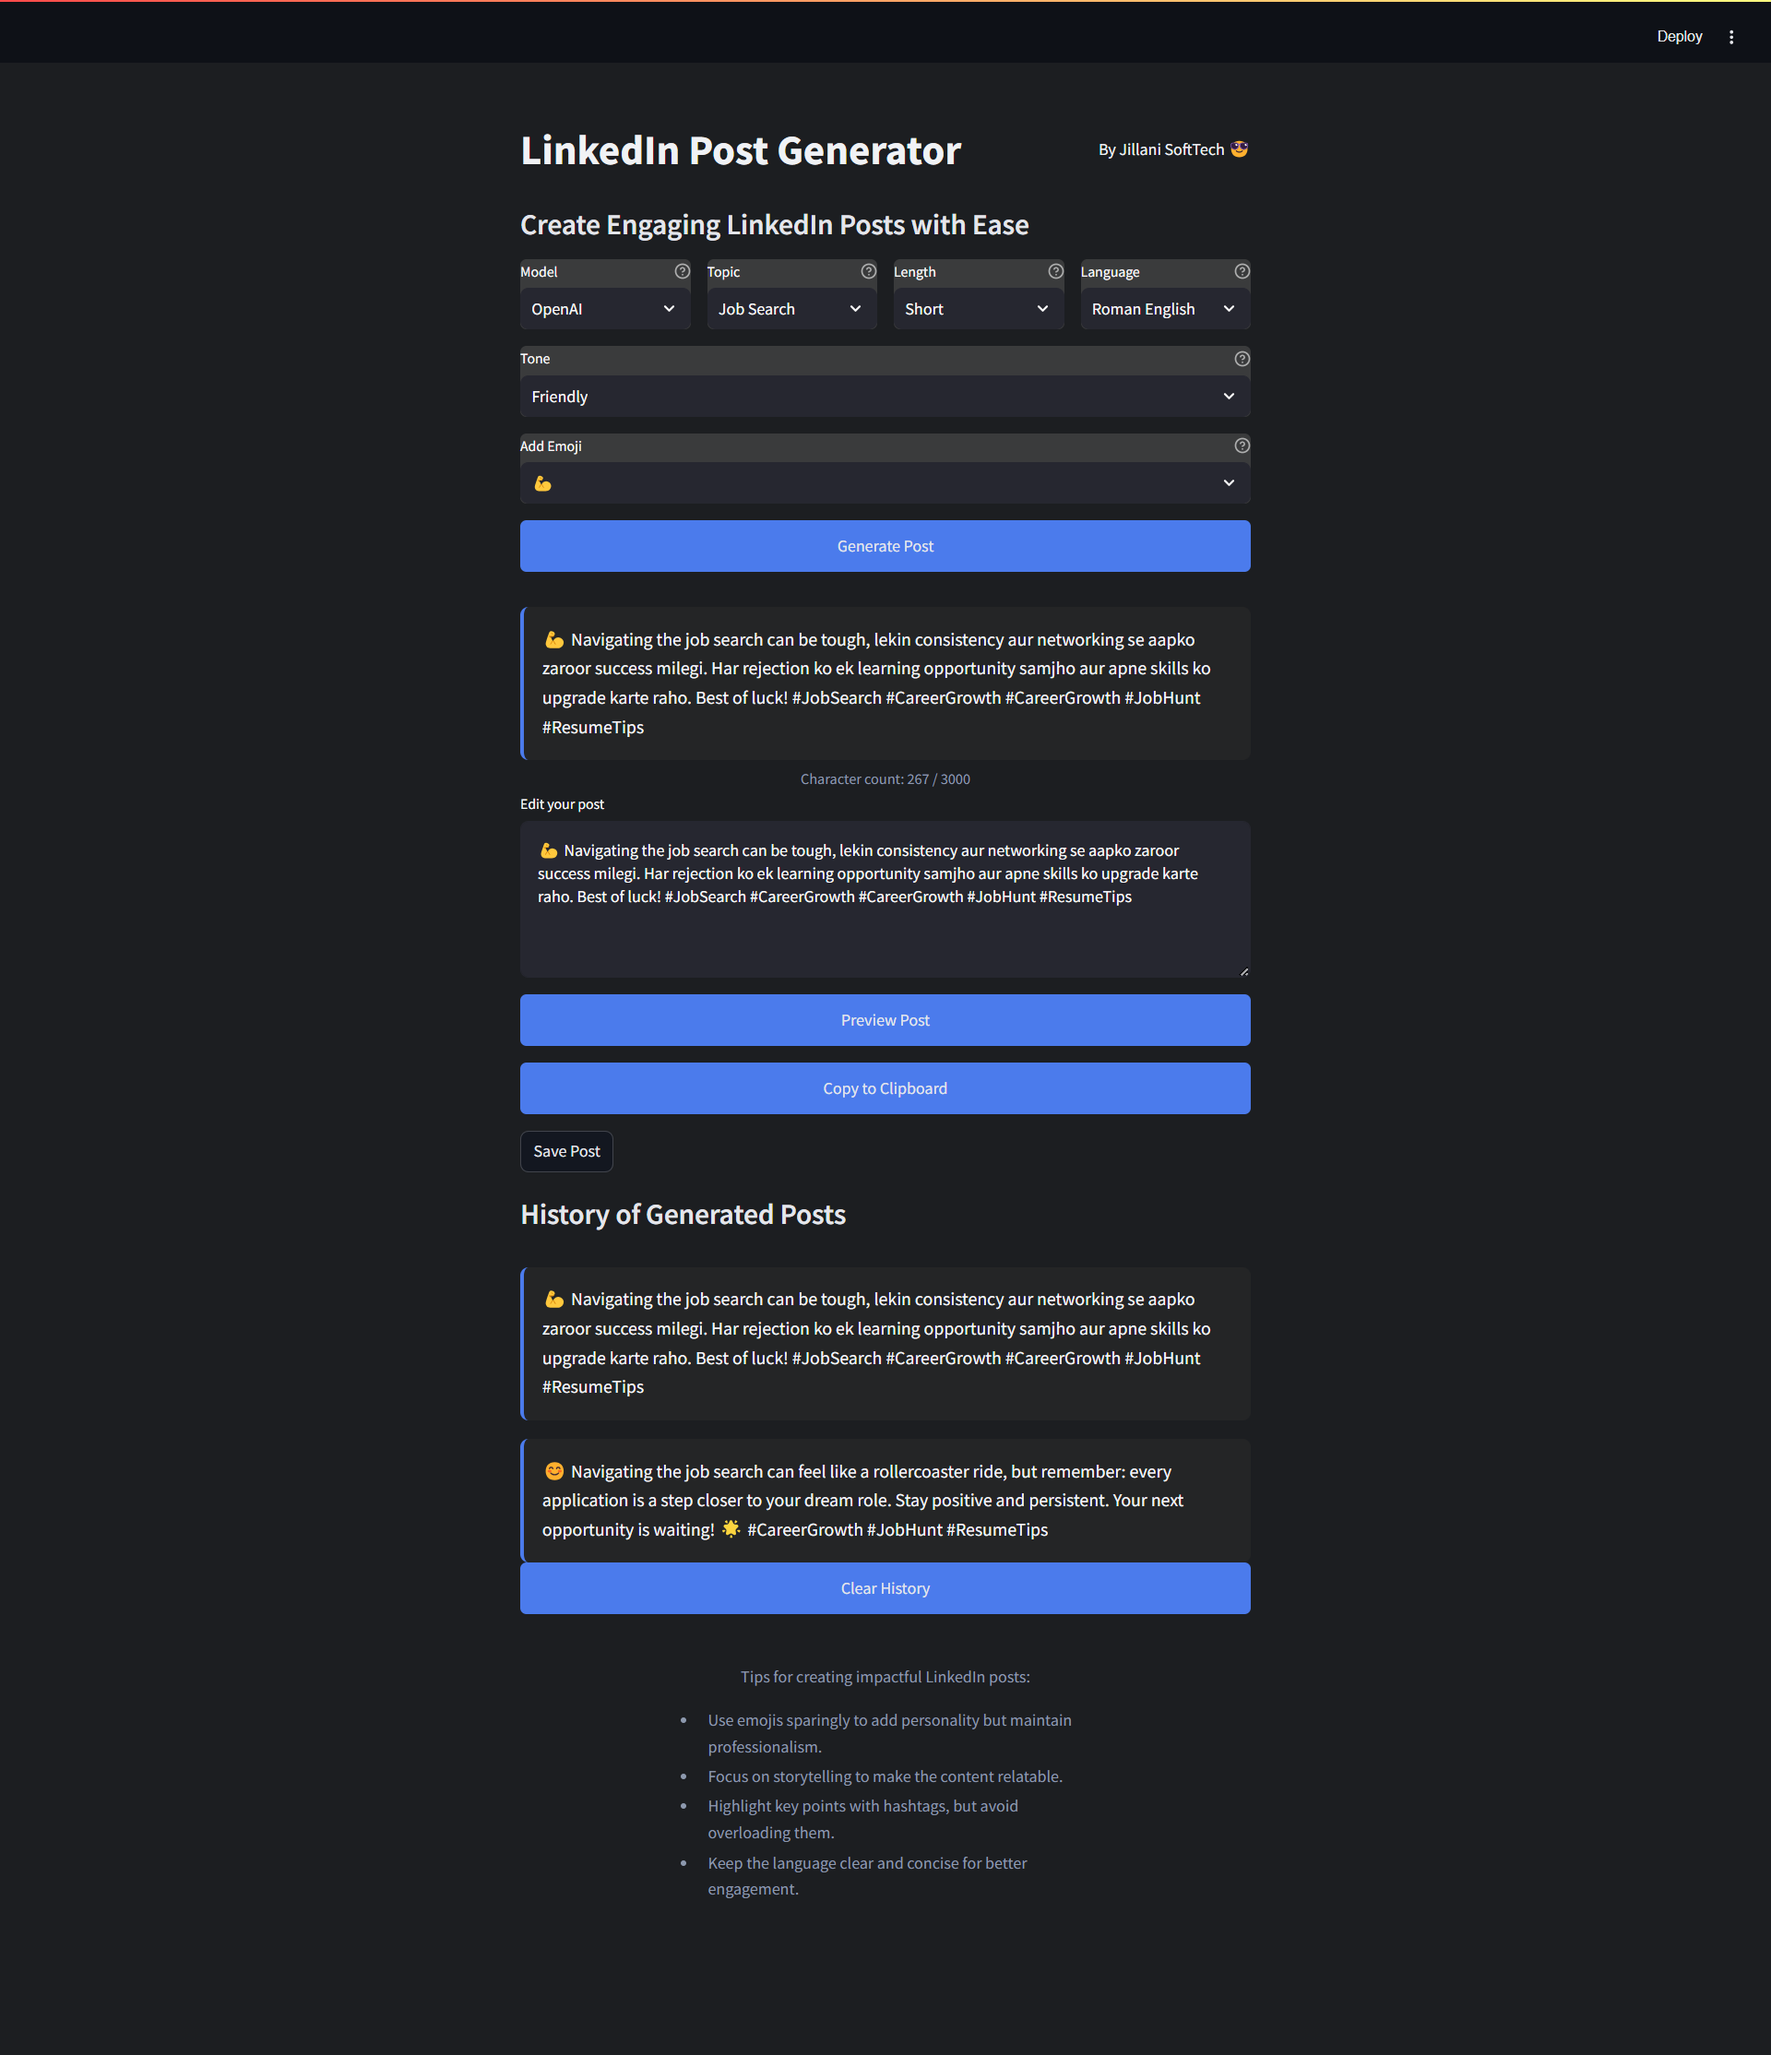
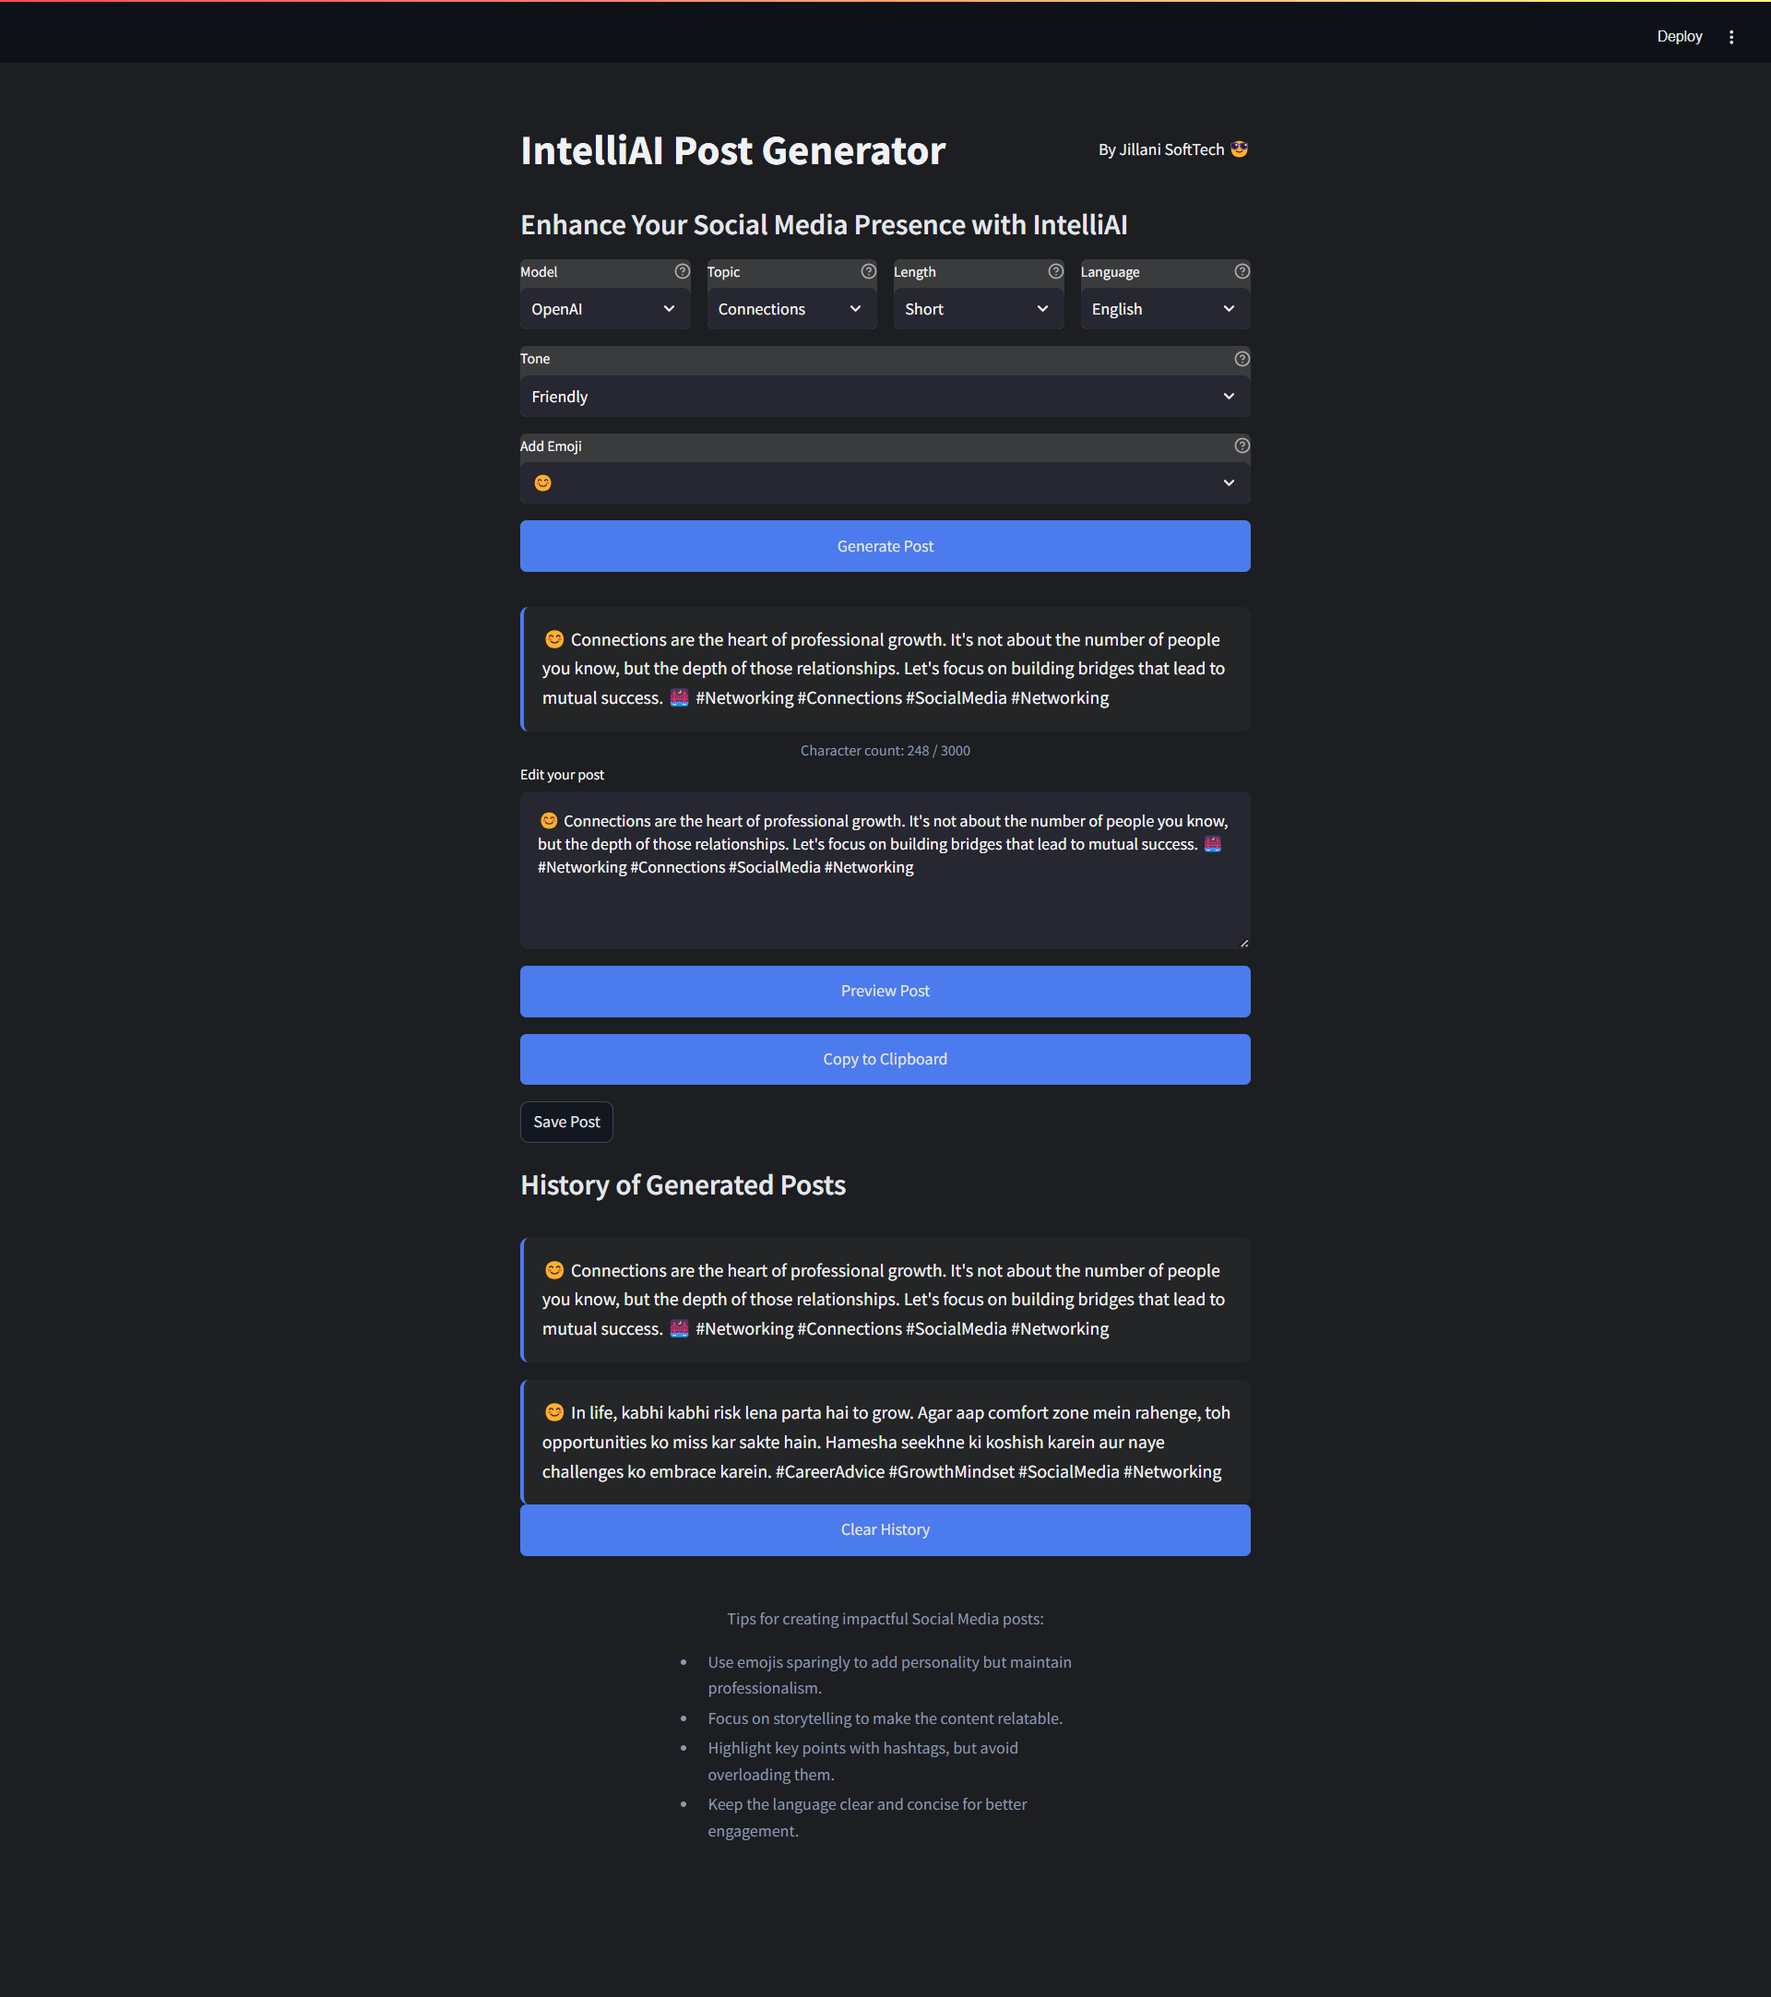
New Files Updated

diff --git a/README.md b/README.md
@@ -1,13 +1,13 @@
-# LinkedIn Post Generator with Generative AI
+# IntelliAI Post Generator with Generative AI
 
-This tool is designed to help LinkedIn influencers create new posts based on their existing writing style. By analyzing past posts, the tool extracts key topics, tone, and length preferences, allowing users to generate fresh content that aligns with their established style.
+This tool, **IntelliAI Post Generator**, is designed to assist Social Media influencers and professionals in creating fresh content that aligns with their established style. By analyzing previous posts, it extracts key topics, tone, and length preferences, enabling users to maintain consistency and engage effectively with their audience.
 
 <p align="center">
   <img src="resources/ui.jpg" alt="App UI"/>
 </p>
 
 ## Overview
-Imagine Muhammad Ghulam Jillani, a LinkedIn influencer, seeking assistance to maintain consistency in his posts. With this tool, he can input his previous LinkedIn posts, allowing the system to learn and replicate his unique tone and style. By selecting parameters such as topic, length, language, tone, and even emojis, he can quickly generate new posts that resonate with his audience.
+Imagine Muhammad Ghulam Jillani, a Social Media influencer, seeking to keep his posts consistent and engaging. With IntelliAI, he can input past Social Media posts, allowing the system to learn and replicate his unique tone and style. By selecting parameters such as topic, length, language, tone, and even emojis, he can effortlessly generate new posts that resonate with his audience.
 
 ## Features
 - **Customizable Post Generation**: Choose from various options, including post length, language (e.g., English, Hinglish), tone, and emoji for a personalized touch.
@@ -22,7 +22,7 @@ Imagine Muhammad Ghulam Jillani, a LinkedIn influencer, seeking assistance to ma
   <img src="resources/architecture.jpg" alt="Technical Architecture"/>
 </p>
 
-1. **Stage 1: Data Extraction** - Collect LinkedIn posts and extract key details such as topic, language, and length. This data is stored for guiding the language model (LLM) in future generations.
+1. **Stage 1: Data Extraction** - Collect Social Media posts and extract key details such as topic, language, and length. This data is stored to guide the language model (LLM) in future generations.
 2. **Stage 2: Few-Shot Learning** - Use selected parameters (e.g., topic, language, and length) along with a few past posts to guide the LLM in generating a new post that matches the writing style.
 
 ## Setup Instructions
@@ -39,9 +39,10 @@ Imagine Muhammad Ghulam Jillani, a LinkedIn influencer, seeking assistance to ma
     ```
 
 ### 2. Install Dependencies
-    Install the necessary Python libraries using:
-    ```bash
-    pip install -r requirements.txt
+   Install the necessary Python libraries using:
+   ```bash
+   pip install -r requirements.txt
+
 
 ### 3. Run the streamlit app:
    ```commandline
@@ -52,11 +53,14 @@ Imagine Muhammad Ghulam Jillani, a LinkedIn influencer, seeking assistance to ma
     GROQ_API_KEY=your_groq_api_key_here
     OPENAI_API_KEY=your_openai_api_key_here
     ```
+### Repository
+The source code for IntelliAI Post Generator can be found on [GitHub](https://github.com/MGJillaniMughal/IntelliAI-Post-Generator.git).
+
 ### License and Attribution
 
 Apache License
 
-Copyright (C) Jillani SoftTech. All rights reserved.
+IntelliAI Post Generator Copyright (C) Jillani SoftTech. All rights reserved.
 
 Permission is hereby granted, free of charge, to any person obtaining a copy of this software and associated documentation files, to deal in the Software without restriction, including the rights to use, copy, modify, merge, publish, distribute, sublicense, and/or sell copies of the Software, subject to the following conditions:
 
